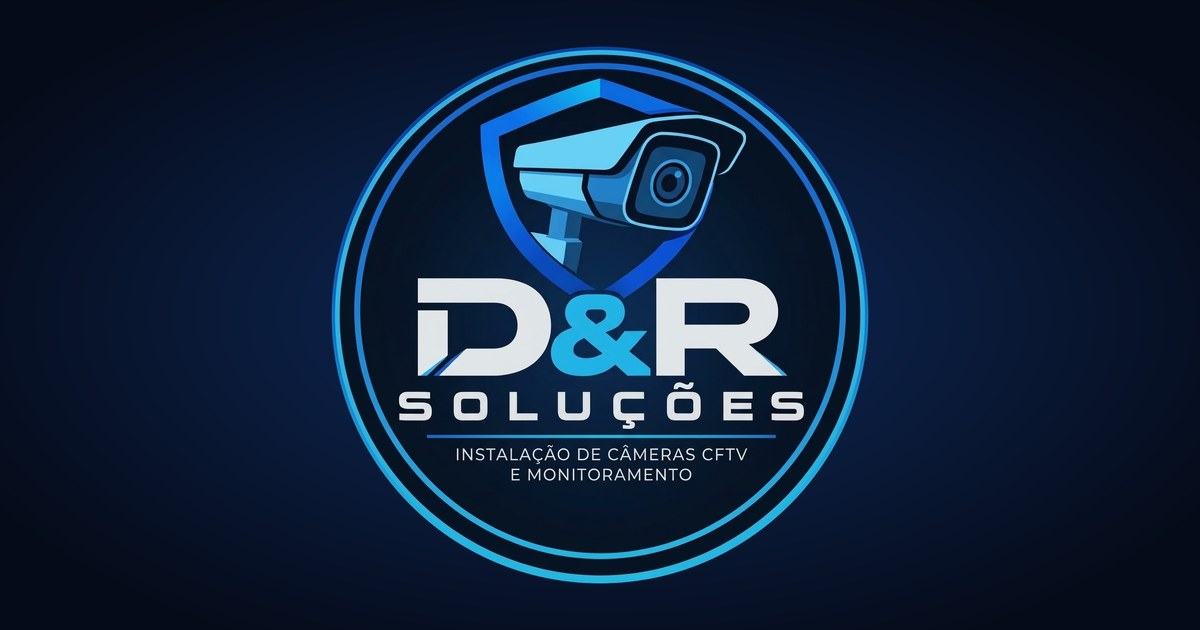
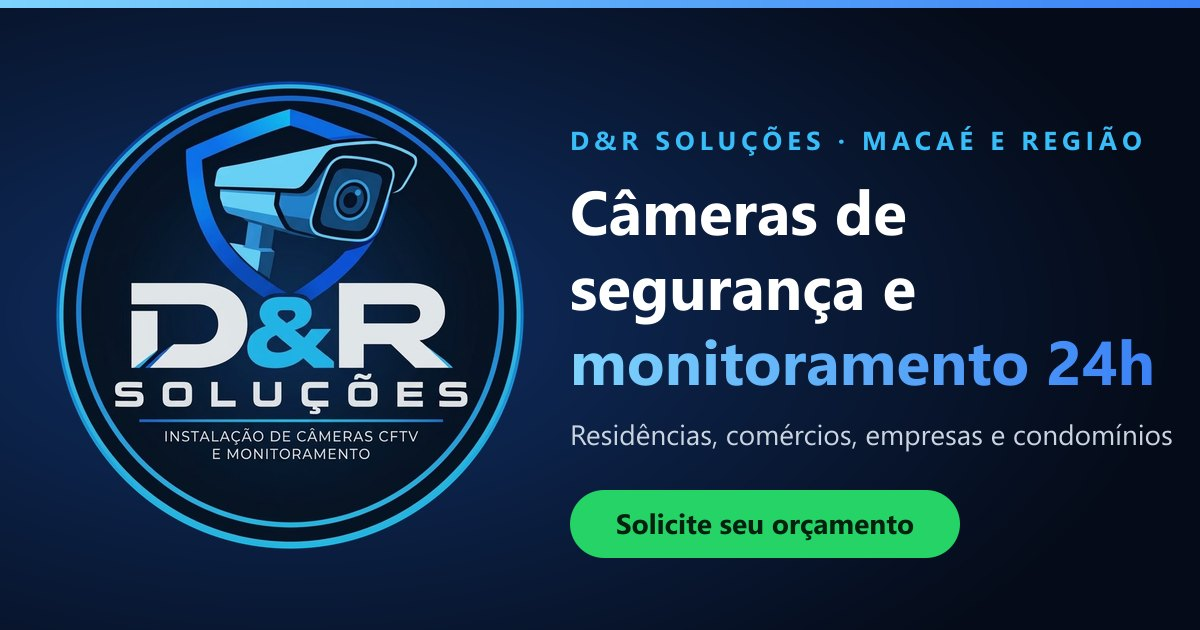
Metadata para busca local em Macaé e região
Título, descrição e palavras-chave voltados a quem procura instalação de
câmeras de segurança; dados estruturados de negócio local; nova imagem de
compartilhamento; menção a Macaé e região no topo e no rodapé.

diff --git a/app/layout.tsx b/app/layout.tsx
@@ -1,7 +1,17 @@
 import type { Metadata, Viewport } from "next";
 import { Inter, Sora } from "next/font/google";
 import "./globals.css";
-import { COMPANY_NAME, SITE_URL } from "@/lib/site";
+import {
+  COMPANY_NAME,
+  COMPANY_SLOGAN,
+  HAS_REAL_PHONE,
+  SERVICE_AREA,
+  SERVICE_CITY,
+  SERVICE_REGION,
+  SITE_URL,
+  WHATSAPP_NUMBER,
+  whatsappUrl,
+} from "@/lib/site";
 
 // Ícones, imagem de compartilhamento e manifest ficam na pasta /app e o Next.js
 // gera as tags automaticamente:
@@ -13,12 +23,26 @@ import { COMPANY_NAME, SITE_URL } from "@/lib/site";
 const inter = Inter({ subsets: ["latin"], variable: "--font-inter", display: "swap" });
 const sora = Sora({ subsets: ["latin"], variable: "--font-sora", display: "swap" });
 
-const TITLE = `${COMPANY_NAME} | Instalação de Câmeras CFTV e Monitoramento`;
-const DESCRIPTION =
-  "Instalação de câmeras CFTV residencial e comercial, com monitoramento 24 horas pelo celular, tablet e PC. Solicite seu orçamento pelo WhatsApp.";
-const SHARE_TITLE = `${COMPANY_NAME} | Sua segurança é a nossa prioridade`;
-const SHARE_DESCRIPTION =
-  "Instalação de câmeras CFTV e monitoramento para residências, comércios, empresas e condomínios.";
+// A cidade (SERVICE_CITY) entra no título, que precisa ser curto; a área completa (SERVICE_AREA) entra nas descrições.
+const IN_AREA = SERVICE_AREA ? ` em ${SERVICE_AREA}` : "";
+
+// Título: o que a pessoa procura primeiro, a marca depois (o Google corta perto de 60 caracteres).
+const TITLE = SERVICE_CITY
+  ? `Instalação de Câmeras de Segurança em ${SERVICE_CITY} | ${COMPANY_NAME}`
+  : `Instalação de Câmeras de Segurança e CFTV | ${COMPANY_NAME}`;
+
+// Descrição: aparece embaixo do título no Google (ideal até uns 155 caracteres) e termina com a chamada.
+const DESCRIPTION = `Instalação de câmeras de segurança CFTV${IN_AREA}, com monitoramento 24h pelo celular. Para casas, comércios, empresas e condomínios. Peça seu orçamento!`;
+
+// Texto de quando o link é compartilhado no WhatsApp e nas redes sociais.
+const SHARE_TITLE = `${COMPANY_NAME} | Câmeras de Segurança e Monitoramento 24 horas`;
+const SHARE_DESCRIPTION = `Sua segurança é a nossa prioridade. Instalação de câmeras CFTV${IN_AREA} com acesso pelo celular, tablet e PC. Solicite seu orçamento pelo WhatsApp.`;
+
+const SERVICES = [
+  "Instalação de câmeras de segurança CFTV residencial e comercial",
+  "Monitoramento 24 horas pelo celular, tablet e PC",
+  "Suporte técnico e manutenção de câmeras de segurança",
+];
 
 export const metadata: Metadata = {
   // Transforma URLs relativas (imagens, canonical) em absolutas.
@@ -30,17 +54,31 @@ export const metadata: Metadata = {
   },
   description: DESCRIPTION,
   applicationName: COMPANY_NAME,
+  category: "Segurança eletrônica",
 
   // O Google ignora keywords, mas outros buscadores ainda leem.
   keywords: [
-    "instalação de câmeras",
-    "câmeras CFTV",
+    "instalação de câmeras de segurança",
+    "instalação de câmeras CFTV",
+    "câmeras de segurança",
+    "câmeras de monitoramento",
     "CFTV",
     "monitoramento 24 horas",
-    "câmeras de segurança",
+    "câmera de segurança residencial",
+    "câmeras para comércio",
+    "câmeras para condomínio",
+    "câmeras para empresas",
+    "ver câmeras pelo celular",
     "segurança eletrônica",
-    "D&R Soluções",
+    "manutenção de câmeras",
+    "orçamento de câmeras de segurança",
+    COMPANY_NAME,
+    ...(SERVICE_CITY
+      ? [`instalação de câmeras em ${SERVICE_CITY}`, `câmeras de segurança em ${SERVICE_CITY}`, `CFTV em ${SERVICE_CITY}`]
+      : []),
   ],
+  authors: [{ name: COMPANY_NAME, url: SITE_URL }],
+  creator: COMPANY_NAME,
   publisher: COMPANY_NAME,
 
   // Aponta a versão "oficial" da página e evita conteúdo duplicado.
@@ -74,6 +112,11 @@ export const metadata: Metadata = {
     title: SHARE_TITLE,
     description: SHARE_DESCRIPTION,
   },
+
+  // Verificação do Google Search Console: descomente e cole o código quando cadastrar o site.
+  // verification: {
+  //   google: "seu-codigo-de-verificacao-google",
+  // },
 };
 
 // Cor da barra do navegador no celular (o site é sempre escuro).
@@ -82,17 +125,66 @@ export const viewport: Viewport = {
   colorScheme: "dark",
 };
 
-// Dados estruturados: ajudam o Google a entender que o site é de um negócio de serviços.
-// Quando tiver telefone e endereço reais, acrescente "telephone" e "address" aqui.
+// Dados estruturados: dizem ao Google que é um negócio local, quais serviços presta e para quem.
+// Para aparecer melhor no Google e no Maps, acrescente "address" (endereço) quando tiver.
 const jsonLd = {
   "@context": "https://schema.org",
-  "@type": "LocalBusiness",
-  name: COMPANY_NAME,
-  url: SITE_URL,
-  logo: `${SITE_URL}/icon.png`,
-  image: `${SITE_URL}/opengraph-image.jpg`,
-  description: DESCRIPTION,
-  knowsAbout: ["Instalação de câmeras CFTV", "Monitoramento"],
+  "@graph": [
+    {
+      "@type": "LocalBusiness",
+      "@id": `${SITE_URL}/#empresa`,
+      name: COMPANY_NAME,
+      slogan: COMPANY_SLOGAN,
+      description: DESCRIPTION,
+      url: SITE_URL,
+      logo: `${SITE_URL}/icon.png`,
+      image: `${SITE_URL}/opengraph-image.jpg`,
+      ...(SERVICE_CITY
+        ? {
+            areaServed: [{ "@type": "City", name: SERVICE_CITY }, SERVICE_AREA],
+            address: {
+              "@type": "PostalAddress",
+              addressLocality: SERVICE_CITY,
+              addressRegion: SERVICE_REGION,
+              addressCountry: "BR",
+            },
+          }
+        : {}),
+      ...(HAS_REAL_PHONE
+        ? {
+            telephone: `+${WHATSAPP_NUMBER}`,
+            contactPoint: {
+              "@type": "ContactPoint",
+              contactType: "Orçamentos",
+              telephone: `+${WHATSAPP_NUMBER}`,
+              url: whatsappUrl(),
+              availableLanguage: "Portuguese",
+            },
+          }
+        : {}),
+      knowsAbout: ["Câmeras de segurança", "CFTV", "Monitoramento", "Segurança eletrônica"],
+      hasOfferCatalog: {
+        "@type": "OfferCatalog",
+        name: "Serviços",
+        itemListElement: SERVICES.map((name) => ({
+          "@type": "Offer",
+          itemOffered: { "@type": "Service", name },
+        })),
+      },
+      audience: {
+        "@type": "Audience",
+        audienceType: "Residências, comércios, empresas e condomínios",
+      },
+    },
+    {
+      "@type": "WebSite",
+      "@id": `${SITE_URL}/#site`,
+      url: SITE_URL,
+      name: COMPANY_NAME,
+      inLanguage: "pt-BR",
+      publisher: { "@id": `${SITE_URL}/#empresa` },
+    },
+  ],
 };
 
 export default function RootLayout({

diff --git a/components/hero-section.tsx b/components/hero-section.tsx
@@ -7,7 +7,7 @@ import { ArrowRight, Cctv, MessageCircle, MonitorSmartphone } from 'lucide-react
 import { TextEffect } from '@/components/ui/text-effect'
 import { Button } from '@/components/ui/button'
 import { HeroHeader } from './header'
-import { COMPANY_NAME, COMPANY_TAGLINE, whatsappUrl } from '@/lib/site'
+import { COMPANY_NAME, COMPANY_TAGLINE, SERVICE_AREA, whatsappUrl } from '@/lib/site'
 
 const fadeInBlur = {
   hidden: { opacity: 0, y: 20, filter: 'blur(12px)' },
@@ -81,7 +81,7 @@ export default function HeroSection() {
                                 delay={1.1}
                                 as="p"
                                 className="mx-auto mt-6 max-w-2xl text-balance text-lg font-medium text-white/75 md:text-xl lg:mx-0">
-                                Instalação de câmeras CFTV e monitoramento 24 horas para você acompanhar tudo de onde estiver, pelo celular, tablet ou PC.
+                                {`Instalação de câmeras CFTV e monitoramento 24 horas em ${SERVICE_AREA}, para você acompanhar tudo de onde estiver, pelo celular, tablet ou PC.`}
                             </TextEffect>
                             <motion.div
                                 initial="hidden"

diff --git a/lib/site.ts b/lib/site.ts
@@ -8,10 +8,21 @@ export const COMPANY_NAME = "D&R Soluções";
 export const COMPANY_TAGLINE = "Instalação de câmeras CFTV e monitoramento";
 export const COMPANY_SLOGAN = "Mais que câmeras, é tranquilidade!";
 
+// Cidade principal. É o que mais ajuda a aparecer no Google para quem busca
+// "instalação de câmeras em <cidade>". Entra no título e nos dados do Google.
+export const SERVICE_CITY = "Macaé";
+// Área de atendimento, como aparece nos textos do site e na descrição do Google.
+export const SERVICE_AREA = "Macaé e região";
+// Estado (sigla), usado nos dados estruturados.
+export const SERVICE_REGION = "RJ";
+
 // TODO: trocar pelo WhatsApp real da D&R Soluções (somente números, com 55 + DDD).
 export const WHATSAPP_NUMBER = "5500000000000";
 // TODO: trocar pelo mesmo número, no formato exibido no site.
 export const PHONE_DISPLAY = "(00) 00000-0000";
+
+// Verdadeiro enquanto o número acima for o fictício (evita publicar telefone falso nos dados do Google).
+export const HAS_REAL_PHONE = !/^550+$/.test(WHATSAPP_NUMBER);
 
 const DEFAULT_MESSAGE = "Olá! Gostaria de solicitar um orçamento de câmeras CFTV.";
 

diff --git a/components/footer.tsx b/components/footer.tsx
@@ -1,5 +1,5 @@
 import { Logo } from '@/components/logo'
-import { COMPANY_NAME, COMPANY_SLOGAN, COMPANY_TAGLINE, MENU_ITEMS, PHONE_DISPLAY, whatsappUrl } from '@/lib/site'
+import { COMPANY_NAME, COMPANY_SLOGAN, COMPANY_TAGLINE, MENU_ITEMS, PHONE_DISPLAY, SERVICE_AREA, whatsappUrl } from '@/lib/site'
 
 export const Footer = () => {
     return (
@@ -11,7 +11,7 @@ export const Footer = () => {
                             <Logo className="size-14" />
                             <span className="text-lg font-semibold text-white">{COMPANY_NAME}</span>
                         </div>
-                        <p className="max-w-xs text-sm">{COMPANY_TAGLINE}.</p>
+                        <p className="max-w-xs text-sm">{COMPANY_TAGLINE} em {SERVICE_AREA}.</p>
                     </div>
 
                     <div>
